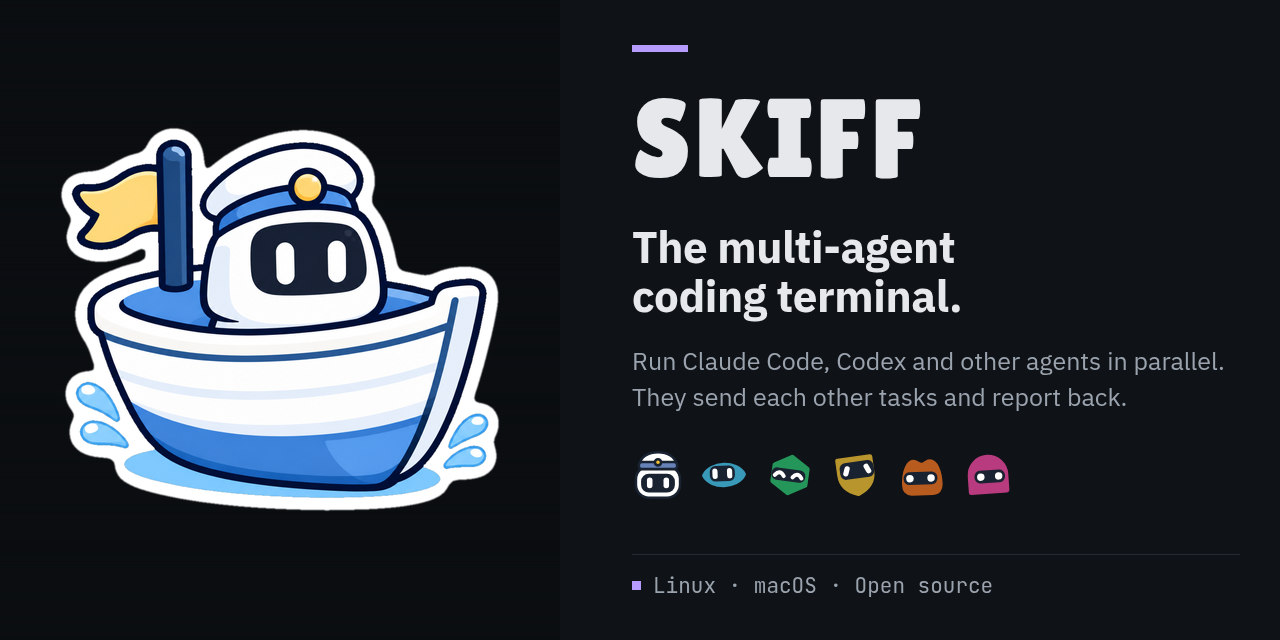
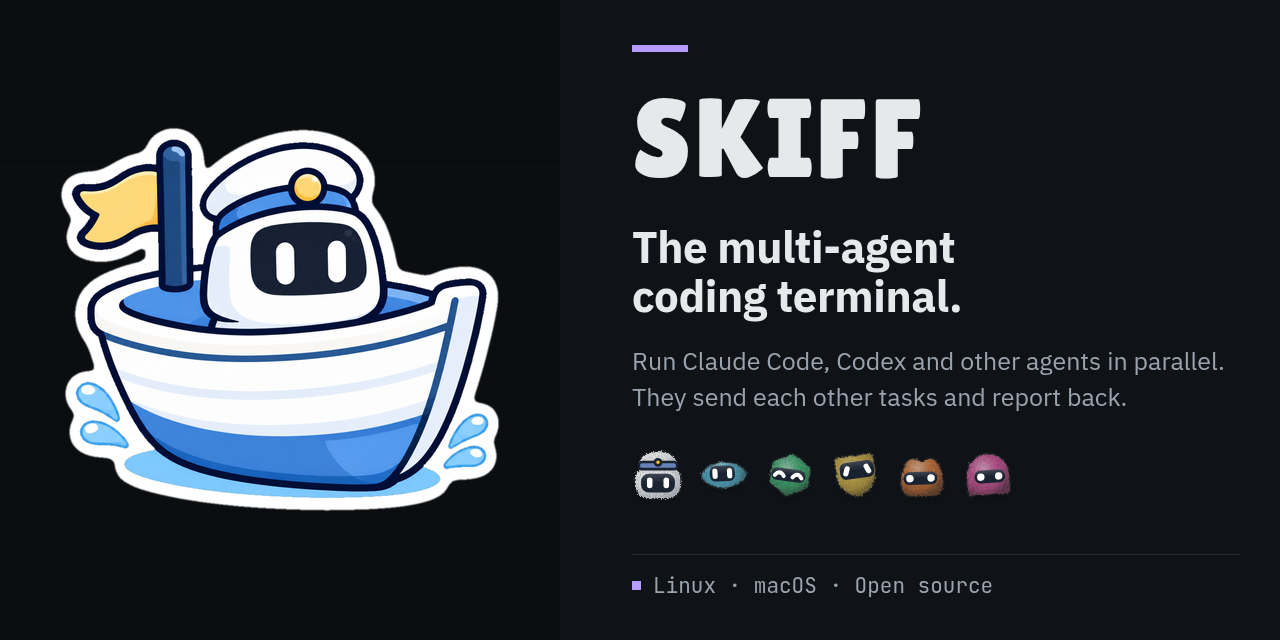
Home and social preview: the Skipper faces in plush, the app's default finish
tools/skipper-avatar.mjs follows skipperAvatar.ts at skiff 362e86a (types
stripped): the plush, gummy and flat finishes and finishDefs(). crew.mjs
draws the crew in DEFAULT_FINISH (plush) and puts the finish defs in once,
before the row, and inside the README banner. The hero crew row and the
social image (og:image ?v=7) are regenerated; build.py rewrites the heads.

The app screenshots and videos still show the flat faces they were shot with.

Changed region(s): [[0.5, 0.6875, 0.8125, 0.7812]]

diff --git a/index.html b/index.html
@@ -10,7 +10,7 @@
 <meta property="og:type" content="website">
 <meta property="og:site_name" content="Skiff">
 <meta property="og:url" content="https://skiff.solutionscay.com/">
-<meta property="og:image" content="https://skiff.solutionscay.com/social-preview.png?v=6">
+<meta property="og:image" content="https://skiff.solutionscay.com/social-preview.png?v=7">
 <meta property="og:image:width" content="1280">
 <meta property="og:image:height" content="640">
 <meta property="og:image:alt" content="Skiff: the multi-agent coding terminal">
@@ -59,13 +59,14 @@
       <h1>The multi-agent coding terminal.</h1>
       <p>Run Claude Code, Codex and other agents in parallel. They send each other tasks and report back.</p>
       <!-- crew -->
+      <svg id="sk-finish-defs" width="0" height="0" style="position:absolute" aria-hidden="true" focusable="false"><defs><radialGradient id="sk-shade-white" cx=".36" cy=".28" r=".8">  <stop offset="0" stop-color="#fff"/><stop offset=".55" stop-color="#eef0f4"/><stop offset="1" stop-color="#aeb6c4"/></radialGradient><linearGradient id="sk-visor" x1="0" y1="0" x2="0" y2="1">  <stop offset="0" stop-color="#fff" stop-opacity=".16"/><stop offset=".5" stop-color="#fff" stop-opacity="0"/></linearGradient><radialGradient id="sk-shade-gummy" gradientUnits="userSpaceOnUse" cx="12" cy="10" r="19">  <stop offset="0" stop-color="#cfcfcf"/><stop offset=".35" stop-color="#808080"/>  <stop offset=".7" stop-color="#6e6e6e"/><stop offset="1" stop-color="#2a2a2a"/></radialGradient><radialGradient id="sk-shade-plush" gradientUnits="userSpaceOnUse" cx="13.5" cy="11.5" r="17.5">  <stop offset="0" stop-color="#b8b8b8"/><stop offset=".45" stop-color="#808080"/>  <stop offset=".75" stop-color="#6c6c6c"/><stop offset="1" stop-color="#3a3a3a"/></radialGradient><filter id="sk-gummy" x="-25%" y="-25%" width="150%" height="160%" color-interpolation-filters="sRGB">  <feGaussianBlur in="SourceAlpha" stdDeviation="1.6" result="soft"/>  <feOffset in="soft" dy="-1.8" result="up"/>  <feComposite in="SourceAlpha" in2="up" operator="out" result="rim0"/>  <feGaussianBlur in="rim0" stdDeviation=".7" result="rim1"/>  <feComposite in="rim1" in2="SourceAlpha" operator="in" result="rim"/>  <feFlood flood-color="#fff" flood-opacity=".38"/>  <feComposite in2="rim" operator="in" result="glow"/>  <feOffset in="soft" dy="1.4" result="down"/>  <feComposite in="SourceAlpha" in2="down" operator="out" result="top0"/>  <feGaussianBlur in="top0" stdDeviation=".7" result="top1"/>  <feComposite in="top1" in2="SourceAlpha" operator="in" result="toprim"/>  <feFlood flood-color="#000" flood-opacity=".3"/>  <feComposite in2="toprim" operator="in" result="dark"/>  <feGaussianBlur in="SourceAlpha" stdDeviation="3.2" result="bump"/>  <feSpecularLighting in="bump" surfaceScale="2.4" specularConstant=".85" specularExponent="14" lighting-color="#fff" result="spec">    <fePointLight x="10" y="4" z="22"/>  </feSpecularLighting>  <feGaussianBlur in="spec" stdDeviation=".5" result="spec2"/>  <feComposite in="spec2" in2="SourceAlpha" operator="in" result="gloss"/>  <feMerge result="body"><feMergeNode in="SourceGraphic"/><feMergeNode in="dark"/><feMergeNode in="glow"/><feMergeNode in="gloss"/></feMerge>  <feGaussianBlur in="SourceAlpha" stdDeviation="1.4" result="sb"/>  <feOffset in="sb" dy="1.8" result="so"/>  <feFlood flood-color="#000" flood-opacity=".32"/>  <feComposite in2="so" operator="in" result="shadow"/>  <feMerge><feMergeNode in="shadow"/><feMergeNode in="body"/></feMerge></filter><filter id="sk-plush" x="-30%" y="-30%" width="160%" height="160%" color-interpolation-filters="sRGB">  <feTurbulence type="fractalNoise" baseFrequency="1.15" numOctaves="4" seed="11" result="noise"/>  <feDisplacementMap in="SourceGraphic" in2="noise" scale="6" xChannelSelector="R" yChannelSelector="G" result="far"/>  <feGaussianBlur in="far" stdDeviation=".8" result="far2"/>  <feComponentTransfer in="far2" result="fluff1"><feFuncA type="linear" slope=".55"/></feComponentTransfer>  <feDisplacementMap in="SourceGraphic" in2="noise" scale="4.2" xChannelSelector="G" yChannelSelector="R" result="long"/>  <feGaussianBlur in="long" stdDeviation=".35" result="fluff2"/>  <feDisplacementMap in="SourceGraphic" in2="noise" scale="2" xChannelSelector="R" yChannelSelector="G" result="core"/>  <feGaussianBlur in="core" stdDeviation=".15" result="core2"/>  <feMerge result="fluff"><feMergeNode in="fluff1"/><feMergeNode in="fluff2"/><feMergeNode in="core2"/></feMerge>  <feTurbulence type="fractalNoise" baseFrequency="1.3 .9" numOctaves="2" seed="5" result="grain"/>  <feColorMatrix in="grain" type="saturate" values="0" result="gg"/>  <feGaussianBlur in="gg" stdDeviation=".2" result="gb"/>  <feComponentTransfer in="gb" result="g"><feFuncR type="linear" slope=".55" intercept=".22"/><feFuncG type="linear" slope=".55" intercept=".22"/><feFuncB type="linear" slope=".55" intercept=".22"/></feComponentTransfer>  <feBlend in="fluff" in2="g" mode="soft-light" result="furred"/>  <feComposite in="furred" in2="fluff" operator="in" result="toy"/>  <feGaussianBlur in="SourceAlpha" stdDeviation="1.8" result="sb"/>  <feOffset in="sb" dy="1.8" result="so"/>  <feFlood flood-color="#000" flood-opacity=".22"/>  <feComposite in2="so" operator="in" result="shadow"/>  <feMerge><feMergeNode in="shadow"/><feMergeNode in="toy"/></feMerge></filter></defs></svg>
       <div class="crew" role="img" aria-label="The Skiff crew: Admiral and five Skippers">
-        <span class="skipper-face" style="--pc:#8eb4ff"><svg viewBox="0 0 32 32" aria-hidden="true" style="--blink:4.1s;--blink-delay:-0.30s;--blink-anim:sk-blink;--face-turn:45s;--face-turn-delay:-12.00s;--dir:1"><g class="sk-turn"><rect x="2.4" y="10.6" width="27.2" height="19.4" rx="8" fill="#fff" stroke="#192230" stroke-width="1.6" stroke-linejoin="round"/><g class="sk-cap"><path d="M4.6 9.4C5.4 4.6 10 2 16 2s10.6 2.6 11.4 7.4z" fill="#fff" stroke="#192230" stroke-width="1.6" stroke-linejoin="round"/><rect x="4.2" y="8" width="23.6" height="4.4" rx="1.8" style="fill:color-mix(in srgb, var(--pc, var(--project-default)) 72%, #000)" stroke="#192230" stroke-width="1.6" stroke-linejoin="round"/></g><g class="sk-front"><circle cx="16" cy="8.2" r="1.9" fill="#f4c430" stroke="#192230" stroke-width="1.6" stroke-linejoin="round"/><rect x="5.6" y="15.2" width="20.8" height="11.6" rx="4.8" fill="#192230"/><g class="sk-look"><g class="sk-eyes" fill="#fff"><rect x="9.2" y="17.6" width="3.4" height="6.6" rx="1.7"/><rect x="19.4" y="17.6" width="3.4" height="6.6" rx="1.7"/></g></g></g></g></svg></span>
-        <span class="skipper-face" style="--pc:#4fd4ff"><svg viewBox="0 0 32 32" aria-hidden="true" style="--blink:4.4s;--blink-delay:-2.20s;--blink-anim:sk-blink;--face-turn:42s;--face-turn-delay:-37.00s;--dir:-1"><g class="sk-turn"><g transform="rotate(-2 16 16)"><path d="M4 16C8 8 24 8 28 16 24 24 8 24 4 16z" style="fill:color-mix(in srgb, var(--pc, var(--project-default)) 72%, #000);stroke:color-mix(in srgb, var(--pc, var(--project-default)) 72%, #000)" stroke-width="3" stroke-linejoin="round"/><g class="sk-front"><rect x="7.300000000000001" y="10.2" width="15.399999999999999" height="9.600000000000001" rx="3.5" fill="#192230"/><g class="sk-look"><g class="sk-eyes" fill="#fff"><g transform="translate(10.5 15)"><rect x="-1.6" y="-3.2" width="3.2" height="6.4" rx="1.6"/></g><g transform="translate(19.5 15)"><rect x="-1.6" y="-3.2" width="3.2" height="6.4" rx="1.6"/></g></g></g></g></g></g></svg></span>
-        <span class="skipper-face" style="--pc:#34d07c"><svg viewBox="0 0 32 32" aria-hidden="true" style="--blink:7s;--blink-delay:-1.80s;--blink-anim:sk-blink2;--face-turn:36s;--face-turn-delay:-26.00s;--dir:-1"><g class="sk-turn"><g transform="rotate(8 16 16)"><path d="M16 5l10 6v10l-10 6-10-6V11z" style="fill:color-mix(in srgb, var(--pc, var(--project-default)) 72%, #000);stroke:color-mix(in srgb, var(--pc, var(--project-default)) 72%, #000)" stroke-width="3" stroke-linejoin="round"/><g class="sk-front"><rect x="4.5" y="12.399999999999999" width="21" height="7.6000000000000005" rx="3.5" fill="#192230"/><g class="sk-look"><g class="sk-eyes" fill="#fff"><g transform="translate(9.5 16)"><path d="M-2.8 1.2q2.8-4 5.6 0" fill="none" stroke="#fff" stroke-width="2.4" stroke-linecap="round"/></g><g transform="translate(20.5 16)"><path d="M-2.8 1.2q2.8-4 5.6 0" fill="none" stroke="#fff" stroke-width="2.4" stroke-linecap="round"/></g></g></g></g></g></g></svg></span>
-        <span class="skipper-face" style="--pc:#ffcf3f"><svg viewBox="0 0 32 32" aria-hidden="true" style="--blink:4.4s;--blink-delay:-1.70s;--blink-anim:sk-blink;--face-turn:30s;--face-turn-delay:-28.00s;--dir:-1"><g class="sk-turn"><g transform="rotate(-8 16 16)"><path d="M6 6h20v9c0 6.5-4.5 10.5-10 12.5C10.5 25.5 6 21.5 6 15z" style="fill:color-mix(in srgb, var(--pc, var(--project-default)) 72%, #000);stroke:color-mix(in srgb, var(--pc, var(--project-default)) 72%, #000)" stroke-width="3" stroke-linejoin="round"/><g class="sk-front"><rect x="6.5" y="7.85" width="21" height="10.3" rx="3.5" fill="#192230"/><g class="sk-look"><g class="sk-eyes" fill="#fff"><g transform="translate(10.5 13)"><rect x="-1.6" y="-3.2" width="3.2" height="6.4" rx="1.6" transform="rotate(22)"/></g><g transform="translate(23.5 13)"><rect x="-1.6" y="-3.2" width="3.2" height="6.4" rx="1.6" transform="rotate(-22)"/></g></g></g></g></g></g></svg></span>
-        <span class="skipper-face" style="--pc:#ff7f2a"><svg viewBox="0 0 32 32" aria-hidden="true" style="--blink:4.6s;--blink-delay:-2.10s;--blink-anim:sk-blink;--face-turn:33s;--face-turn-delay:-19.00s;--dir:-1"><g class="sk-turn"><g transform="rotate(-2 16 16)"><path d="M5 22c0-8 2.5-14 6-14 2 0 3 2 5 2s3-2 5-2c3.5 0 6 6 6 14 0 3-1.5 5-4.5 5h-13C6.5 27 5 25 5 22z" style="fill:color-mix(in srgb, var(--pc, var(--project-default)) 72%, #000);stroke:color-mix(in srgb, var(--pc, var(--project-default)) 72%, #000)" stroke-width="3" stroke-linejoin="round"/><g class="sk-front"><rect x="4.6" y="14.1" width="20.8" height="7.8" rx="3.5" fill="#192230"/><g class="sk-look"><g class="sk-eyes" fill="#fff"><g transform="translate(8.5 18)"><circle r="2.3"/></g><g transform="translate(21.5 18)"><circle r="2.3"/></g></g></g></g></g></g></svg></span>
-        <span class="skipper-face" style="--pc:#ff52b0"><svg viewBox="0 0 32 32" aria-hidden="true" style="--blink:5.6s;--blink-delay:-0.90s;--blink-anim:sk-blink;--face-turn:42s;--face-turn-delay:-39.00s;--dir:1"><g class="sk-turn"><g transform="rotate(-4 16 16)"><path d="M5 26V16a11 11 0 0 1 22 0v10z" style="fill:color-mix(in srgb, var(--pc, var(--project-default)) 72%, #000);stroke:color-mix(in srgb, var(--pc, var(--project-default)) 72%, #000)" stroke-width="3" stroke-linejoin="round"/><g class="sk-front"><rect x="7.6" y="13.1" width="18.8" height="7.8" rx="3.5" fill="#192230"/><g class="sk-look"><g class="sk-eyes" fill="#fff"><g transform="translate(11.5 17)"><circle r="2.3"/></g><g transform="translate(22.5 17)"><circle r="2.3"/></g></g></g></g></g></g></svg></span>
+        <span class="skipper-face" style="--pc:#8eb4ff"><svg viewBox="0 0 32 32" aria-hidden="true" overflow="visible" style="--blink:4.1s;--blink-delay:-0.30s;--blink-anim:sk-blink;--face-turn:45s;--face-turn-delay:-12.00s;--dir:1"><g class="sk-turn"><g filter="url(#sk-plush)"><rect x="2.4" y="10.6" width="27.2" height="19.4" rx="8" fill="#fff" /><rect x="2.4" y="10.6" width="27.2" height="19.4" rx="8" fill="url(#sk-shade-white)" /></g><g class="sk-cap"><g filter="url(#sk-plush)"><path d="M4.6 9.4C5.4 4.6 10 2 16 2s10.6 2.6 11.4 7.4z" fill="#fff" /><path d="M4.6 9.4C5.4 4.6 10 2 16 2s10.6 2.6 11.4 7.4z" fill="url(#sk-shade-white)" /></g><rect x="4.2" y="8" width="23.6" height="4.4" rx="1.8" style="fill:color-mix(in srgb, var(--pc, var(--project-default)) 72%, #000)" stroke="#192230" stroke-width="1.6" stroke-linejoin="round"/></g><g class="sk-front"><circle cx="16" cy="8.2" r="1.9" fill="#f4c430" stroke="#192230" stroke-width="1.6" stroke-linejoin="round"/><rect x="5.6" y="15.2" width="20.8" height="11.6" rx="4.8" fill="#192230"/><rect x="5.6" y="15.2" width="20.8" height="11.6" rx="4.8" fill="url(#sk-visor)"/><g class="sk-look"><g class="sk-eyes" fill="#fff"><rect x="9.2" y="17.6" width="3.4" height="6.6" rx="1.7"/><rect x="19.4" y="17.6" width="3.4" height="6.6" rx="1.7"/></g></g></g></g></svg></span>
+        <span class="skipper-face" style="--pc:#4fd4ff"><svg viewBox="0 0 32 32" aria-hidden="true" overflow="visible" style="--blink:4.4s;--blink-delay:-2.20s;--blink-anim:sk-blink;--face-turn:42s;--face-turn-delay:-37.00s;--dir:-1"><g class="sk-turn"><g transform="rotate(-2 16 16)"><g filter="url(#sk-plush)"><path d="M4 16C8 8 24 8 28 16 24 24 8 24 4 16z" style="fill:color-mix(in srgb, var(--pc, var(--project-default)) 72%, #000);stroke:color-mix(in srgb, var(--pc, var(--project-default)) 72%, #000)" stroke-width="3" stroke-linejoin="round"/><path d="M4 16C8 8 24 8 28 16 24 24 8 24 4 16z" fill="url(#sk-shade-plush)" stroke="url(#sk-shade-plush)" stroke-width="3" stroke-linejoin="round" style="mix-blend-mode:hard-light"/></g><g class="sk-front"><rect x="7.300000000000001" y="10.2" width="15.399999999999999" height="9.600000000000001" rx="3.5" fill="#192230"/><rect x="7.300000000000001" y="10.2" width="15.399999999999999" height="9.600000000000001" rx="3.5" fill="url(#sk-visor)"/><g class="sk-look"><g class="sk-eyes" fill="#fff"><g transform="translate(10.5 15)"><rect x="-1.6" y="-3.2" width="3.2" height="6.4" rx="1.6"/></g><g transform="translate(19.5 15)"><rect x="-1.6" y="-3.2" width="3.2" height="6.4" rx="1.6"/></g></g></g></g></g></g></svg></span>
+        <span class="skipper-face" style="--pc:#34d07c"><svg viewBox="0 0 32 32" aria-hidden="true" overflow="visible" style="--blink:7s;--blink-delay:-1.80s;--blink-anim:sk-blink2;--face-turn:36s;--face-turn-delay:-26.00s;--dir:-1"><g class="sk-turn"><g transform="rotate(8 16 16)"><g filter="url(#sk-plush)"><path d="M16 5l10 6v10l-10 6-10-6V11z" style="fill:color-mix(in srgb, var(--pc, var(--project-default)) 72%, #000);stroke:color-mix(in srgb, var(--pc, var(--project-default)) 72%, #000)" stroke-width="3" stroke-linejoin="round"/><path d="M16 5l10 6v10l-10 6-10-6V11z" fill="url(#sk-shade-plush)" stroke="url(#sk-shade-plush)" stroke-width="3" stroke-linejoin="round" style="mix-blend-mode:hard-light"/></g><g class="sk-front"><rect x="4.5" y="12.399999999999999" width="21" height="7.6000000000000005" rx="3.5" fill="#192230"/><rect x="4.5" y="12.399999999999999" width="21" height="7.6000000000000005" rx="3.5" fill="url(#sk-visor)"/><g class="sk-look"><g class="sk-eyes" fill="#fff"><g transform="translate(9.5 16)"><path d="M-2.8 1.2q2.8-4 5.6 0" fill="none" stroke="#fff" stroke-width="2.4" stroke-linecap="round"/></g><g transform="translate(20.5 16)"><path d="M-2.8 1.2q2.8-4 5.6 0" fill="none" stroke="#fff" stroke-width="2.4" stroke-linecap="round"/></g></g></g></g></g></g></svg></span>
+        <span class="skipper-face" style="--pc:#ffcf3f"><svg viewBox="0 0 32 32" aria-hidden="true" overflow="visible" style="--blink:4.4s;--blink-delay:-1.70s;--blink-anim:sk-blink;--face-turn:30s;--face-turn-delay:-28.00s;--dir:-1"><g class="sk-turn"><g transform="rotate(-8 16 16)"><g filter="url(#sk-plush)"><path d="M6 6h20v9c0 6.5-4.5 10.5-10 12.5C10.5 25.5 6 21.5 6 15z" style="fill:color-mix(in srgb, var(--pc, var(--project-default)) 72%, #000);stroke:color-mix(in srgb, var(--pc, var(--project-default)) 72%, #000)" stroke-width="3" stroke-linejoin="round"/><path d="M6 6h20v9c0 6.5-4.5 10.5-10 12.5C10.5 25.5 6 21.5 6 15z" fill="url(#sk-shade-plush)" stroke="url(#sk-shade-plush)" stroke-width="3" stroke-linejoin="round" style="mix-blend-mode:hard-light"/></g><g class="sk-front"><rect x="6.5" y="7.85" width="21" height="10.3" rx="3.5" fill="#192230"/><rect x="6.5" y="7.85" width="21" height="10.3" rx="3.5" fill="url(#sk-visor)"/><g class="sk-look"><g class="sk-eyes" fill="#fff"><g transform="translate(10.5 13)"><rect x="-1.6" y="-3.2" width="3.2" height="6.4" rx="1.6" transform="rotate(22)"/></g><g transform="translate(23.5 13)"><rect x="-1.6" y="-3.2" width="3.2" height="6.4" rx="1.6" transform="rotate(-22)"/></g></g></g></g></g></g></svg></span>
+        <span class="skipper-face" style="--pc:#ff7f2a"><svg viewBox="0 0 32 32" aria-hidden="true" overflow="visible" style="--blink:4.6s;--blink-delay:-2.10s;--blink-anim:sk-blink;--face-turn:33s;--face-turn-delay:-19.00s;--dir:-1"><g class="sk-turn"><g transform="rotate(-2 16 16)"><g filter="url(#sk-plush)"><path d="M5 22c0-8 2.5-14 6-14 2 0 3 2 5 2s3-2 5-2c3.5 0 6 6 6 14 0 3-1.5 5-4.5 5h-13C6.5 27 5 25 5 22z" style="fill:color-mix(in srgb, var(--pc, var(--project-default)) 72%, #000);stroke:color-mix(in srgb, var(--pc, var(--project-default)) 72%, #000)" stroke-width="3" stroke-linejoin="round"/><path d="M5 22c0-8 2.5-14 6-14 2 0 3 2 5 2s3-2 5-2c3.5 0 6 6 6 14 0 3-1.5 5-4.5 5h-13C6.5 27 5 25 5 22z" fill="url(#sk-shade-plush)" stroke="url(#sk-shade-plush)" stroke-width="3" stroke-linejoin="round" style="mix-blend-mode:hard-light"/></g><g class="sk-front"><rect x="4.6" y="14.1" width="20.8" height="7.8" rx="3.5" fill="#192230"/><rect x="4.6" y="14.1" width="20.8" height="7.8" rx="3.5" fill="url(#sk-visor)"/><g class="sk-look"><g class="sk-eyes" fill="#fff"><g transform="translate(8.5 18)"><circle r="2.3"/></g><g transform="translate(21.5 18)"><circle r="2.3"/></g></g></g></g></g></g></svg></span>
+        <span class="skipper-face" style="--pc:#ff52b0"><svg viewBox="0 0 32 32" aria-hidden="true" overflow="visible" style="--blink:5.6s;--blink-delay:-0.90s;--blink-anim:sk-blink;--face-turn:42s;--face-turn-delay:-39.00s;--dir:1"><g class="sk-turn"><g transform="rotate(-4 16 16)"><g filter="url(#sk-plush)"><path d="M5 26V16a11 11 0 0 1 22 0v10z" style="fill:color-mix(in srgb, var(--pc, var(--project-default)) 72%, #000);stroke:color-mix(in srgb, var(--pc, var(--project-default)) 72%, #000)" stroke-width="3" stroke-linejoin="round"/><path d="M5 26V16a11 11 0 0 1 22 0v10z" fill="url(#sk-shade-plush)" stroke="url(#sk-shade-plush)" stroke-width="3" stroke-linejoin="round" style="mix-blend-mode:hard-light"/></g><g class="sk-front"><rect x="7.6" y="13.1" width="18.8" height="7.8" rx="3.5" fill="#192230"/><rect x="7.6" y="13.1" width="18.8" height="7.8" rx="3.5" fill="url(#sk-visor)"/><g class="sk-look"><g class="sk-eyes" fill="#fff"><g transform="translate(11.5 17)"><circle r="2.3"/></g><g transform="translate(22.5 17)"><circle r="2.3"/></g></g></g></g></g></g></svg></span>
       </div>
       <!-- /crew -->
       <div class="get">

diff --git a/tools/social-preview.html b/tools/social-preview.html
@@ -39,13 +39,14 @@
     <h1>The multi-agent<br>coding terminal.</h1>
     <p>Run Claude Code, Codex and other agents in parallel.<br>They send each other tasks and report back.</p>
     <!-- crew -->
+    <svg id="sk-finish-defs" width="0" height="0" style="position:absolute" aria-hidden="true" focusable="false"><defs><radialGradient id="sk-shade-white" cx=".36" cy=".28" r=".8">  <stop offset="0" stop-color="#fff"/><stop offset=".55" stop-color="#eef0f4"/><stop offset="1" stop-color="#aeb6c4"/></radialGradient><linearGradient id="sk-visor" x1="0" y1="0" x2="0" y2="1">  <stop offset="0" stop-color="#fff" stop-opacity=".16"/><stop offset=".5" stop-color="#fff" stop-opacity="0"/></linearGradient><radialGradient id="sk-shade-gummy" gradientUnits="userSpaceOnUse" cx="12" cy="10" r="19">  <stop offset="0" stop-color="#cfcfcf"/><stop offset=".35" stop-color="#808080"/>  <stop offset=".7" stop-color="#6e6e6e"/><stop offset="1" stop-color="#2a2a2a"/></radialGradient><radialGradient id="sk-shade-plush" gradientUnits="userSpaceOnUse" cx="13.5" cy="11.5" r="17.5">  <stop offset="0" stop-color="#b8b8b8"/><stop offset=".45" stop-color="#808080"/>  <stop offset=".75" stop-color="#6c6c6c"/><stop offset="1" stop-color="#3a3a3a"/></radialGradient><filter id="sk-gummy" x="-25%" y="-25%" width="150%" height="160%" color-interpolation-filters="sRGB">  <feGaussianBlur in="SourceAlpha" stdDeviation="1.6" result="soft"/>  <feOffset in="soft" dy="-1.8" result="up"/>  <feComposite in="SourceAlpha" in2="up" operator="out" result="rim0"/>  <feGaussianBlur in="rim0" stdDeviation=".7" result="rim1"/>  <feComposite in="rim1" in2="SourceAlpha" operator="in" result="rim"/>  <feFlood flood-color="#fff" flood-opacity=".38"/>  <feComposite in2="rim" operator="in" result="glow"/>  <feOffset in="soft" dy="1.4" result="down"/>  <feComposite in="SourceAlpha" in2="down" operator="out" result="top0"/>  <feGaussianBlur in="top0" stdDeviation=".7" result="top1"/>  <feComposite in="top1" in2="SourceAlpha" operator="in" result="toprim"/>  <feFlood flood-color="#000" flood-opacity=".3"/>  <feComposite in2="toprim" operator="in" result="dark"/>  <feGaussianBlur in="SourceAlpha" stdDeviation="3.2" result="bump"/>  <feSpecularLighting in="bump" surfaceScale="2.4" specularConstant=".85" specularExponent="14" lighting-color="#fff" result="spec">    <fePointLight x="10" y="4" z="22"/>  </feSpecularLighting>  <feGaussianBlur in="spec" stdDeviation=".5" result="spec2"/>  <feComposite in="spec2" in2="SourceAlpha" operator="in" result="gloss"/>  <feMerge result="body"><feMergeNode in="SourceGraphic"/><feMergeNode in="dark"/><feMergeNode in="glow"/><feMergeNode in="gloss"/></feMerge>  <feGaussianBlur in="SourceAlpha" stdDeviation="1.4" result="sb"/>  <feOffset in="sb" dy="1.8" result="so"/>  <feFlood flood-color="#000" flood-opacity=".32"/>  <feComposite in2="so" operator="in" result="shadow"/>  <feMerge><feMergeNode in="shadow"/><feMergeNode in="body"/></feMerge></filter><filter id="sk-plush" x="-30%" y="-30%" width="160%" height="160%" color-interpolation-filters="sRGB">  <feTurbulence type="fractalNoise" baseFrequency="1.15" numOctaves="4" seed="11" result="noise"/>  <feDisplacementMap in="SourceGraphic" in2="noise" scale="6" xChannelSelector="R" yChannelSelector="G" result="far"/>  <feGaussianBlur in="far" stdDeviation=".8" result="far2"/>  <feComponentTransfer in="far2" result="fluff1"><feFuncA type="linear" slope=".55"/></feComponentTransfer>  <feDisplacementMap in="SourceGraphic" in2="noise" scale="4.2" xChannelSelector="G" yChannelSelector="R" result="long"/>  <feGaussianBlur in="long" stdDeviation=".35" result="fluff2"/>  <feDisplacementMap in="SourceGraphic" in2="noise" scale="2" xChannelSelector="R" yChannelSelector="G" result="core"/>  <feGaussianBlur in="core" stdDeviation=".15" result="core2"/>  <feMerge result="fluff"><feMergeNode in="fluff1"/><feMergeNode in="fluff2"/><feMergeNode in="core2"/></feMerge>  <feTurbulence type="fractalNoise" baseFrequency="1.3 .9" numOctaves="2" seed="5" result="grain"/>  <feColorMatrix in="grain" type="saturate" values="0" result="gg"/>  <feGaussianBlur in="gg" stdDeviation=".2" result="gb"/>  <feComponentTransfer in="gb" result="g"><feFuncR type="linear" slope=".55" intercept=".22"/><feFuncG type="linear" slope=".55" intercept=".22"/><feFuncB type="linear" slope=".55" intercept=".22"/></feComponentTransfer>  <feBlend in="fluff" in2="g" mode="soft-light" result="furred"/>  <feComposite in="furred" in2="fluff" operator="in" result="toy"/>  <feGaussianBlur in="SourceAlpha" stdDeviation="1.8" result="sb"/>  <feOffset in="sb" dy="1.8" result="so"/>  <feFlood flood-color="#000" flood-opacity=".22"/>  <feComposite in2="so" operator="in" result="shadow"/>  <feMerge><feMergeNode in="shadow"/><feMergeNode in="toy"/></feMerge></filter></defs></svg>
     <div class="crew" role="img" aria-label="The Skiff crew: Admiral and five Skippers">
-      <span class="skipper-face" style="--pc:#8eb4ff"><svg viewBox="0 0 32 32" aria-hidden="true" style="--blink:4.1s;--blink-delay:-0.30s;--blink-anim:sk-blink;--face-turn:45s;--face-turn-delay:-12.00s;--dir:1"><g class="sk-turn"><rect x="2.4" y="10.6" width="27.2" height="19.4" rx="8" fill="#fff" stroke="#192230" stroke-width="1.6" stroke-linejoin="round"/><g class="sk-cap"><path d="M4.6 9.4C5.4 4.6 10 2 16 2s10.6 2.6 11.4 7.4z" fill="#fff" stroke="#192230" stroke-width="1.6" stroke-linejoin="round"/><rect x="4.2" y="8" width="23.6" height="4.4" rx="1.8" style="fill:color-mix(in srgb, var(--pc, var(--project-default)) 72%, #000)" stroke="#192230" stroke-width="1.6" stroke-linejoin="round"/></g><g class="sk-front"><circle cx="16" cy="8.2" r="1.9" fill="#f4c430" stroke="#192230" stroke-width="1.6" stroke-linejoin="round"/><rect x="5.6" y="15.2" width="20.8" height="11.6" rx="4.8" fill="#192230"/><g class="sk-look"><g class="sk-eyes" fill="#fff"><rect x="9.2" y="17.6" width="3.4" height="6.6" rx="1.7"/><rect x="19.4" y="17.6" width="3.4" height="6.6" rx="1.7"/></g></g></g></g></svg></span>
-      <span class="skipper-face" style="--pc:#4fd4ff"><svg viewBox="0 0 32 32" aria-hidden="true" style="--blink:4.4s;--blink-delay:-2.20s;--blink-anim:sk-blink;--face-turn:42s;--face-turn-delay:-37.00s;--dir:-1"><g class="sk-turn"><g transform="rotate(-2 16 16)"><path d="M4 16C8 8 24 8 28 16 24 24 8 24 4 16z" style="fill:color-mix(in srgb, var(--pc, var(--project-default)) 72%, #000);stroke:color-mix(in srgb, var(--pc, var(--project-default)) 72%, #000)" stroke-width="3" stroke-linejoin="round"/><g class="sk-front"><rect x="7.300000000000001" y="10.2" width="15.399999999999999" height="9.600000000000001" rx="3.5" fill="#192230"/><g class="sk-look"><g class="sk-eyes" fill="#fff"><g transform="translate(10.5 15)"><rect x="-1.6" y="-3.2" width="3.2" height="6.4" rx="1.6"/></g><g transform="translate(19.5 15)"><rect x="-1.6" y="-3.2" width="3.2" height="6.4" rx="1.6"/></g></g></g></g></g></g></svg></span>
-      <span class="skipper-face" style="--pc:#34d07c"><svg viewBox="0 0 32 32" aria-hidden="true" style="--blink:7s;--blink-delay:-1.80s;--blink-anim:sk-blink2;--face-turn:36s;--face-turn-delay:-26.00s;--dir:-1"><g class="sk-turn"><g transform="rotate(8 16 16)"><path d="M16 5l10 6v10l-10 6-10-6V11z" style="fill:color-mix(in srgb, var(--pc, var(--project-default)) 72%, #000);stroke:color-mix(in srgb, var(--pc, var(--project-default)) 72%, #000)" stroke-width="3" stroke-linejoin="round"/><g class="sk-front"><rect x="4.5" y="12.399999999999999" width="21" height="7.6000000000000005" rx="3.5" fill="#192230"/><g class="sk-look"><g class="sk-eyes" fill="#fff"><g transform="translate(9.5 16)"><path d="M-2.8 1.2q2.8-4 5.6 0" fill="none" stroke="#fff" stroke-width="2.4" stroke-linecap="round"/></g><g transform="translate(20.5 16)"><path d="M-2.8 1.2q2.8-4 5.6 0" fill="none" stroke="#fff" stroke-width="2.4" stroke-linecap="round"/></g></g></g></g></g></g></svg></span>
-      <span class="skipper-face" style="--pc:#ffcf3f"><svg viewBox="0 0 32 32" aria-hidden="true" style="--blink:4.4s;--blink-delay:-1.70s;--blink-anim:sk-blink;--face-turn:30s;--face-turn-delay:-28.00s;--dir:-1"><g class="sk-turn"><g transform="rotate(-8 16 16)"><path d="M6 6h20v9c0 6.5-4.5 10.5-10 12.5C10.5 25.5 6 21.5 6 15z" style="fill:color-mix(in srgb, var(--pc, var(--project-default)) 72%, #000);stroke:color-mix(in srgb, var(--pc, var(--project-default)) 72%, #000)" stroke-width="3" stroke-linejoin="round"/><g class="sk-front"><rect x="6.5" y="7.85" width="21" height="10.3" rx="3.5" fill="#192230"/><g class="sk-look"><g class="sk-eyes" fill="#fff"><g transform="translate(10.5 13)"><rect x="-1.6" y="-3.2" width="3.2" height="6.4" rx="1.6" transform="rotate(22)"/></g><g transform="translate(23.5 13)"><rect x="-1.6" y="-3.2" width="3.2" height="6.4" rx="1.6" transform="rotate(-22)"/></g></g></g></g></g></g></svg></span>
-      <span class="skipper-face" style="--pc:#ff7f2a"><svg viewBox="0 0 32 32" aria-hidden="true" style="--blink:4.6s;--blink-delay:-2.10s;--blink-anim:sk-blink;--face-turn:33s;--face-turn-delay:-19.00s;--dir:-1"><g class="sk-turn"><g transform="rotate(-2 16 16)"><path d="M5 22c0-8 2.5-14 6-14 2 0 3 2 5 2s3-2 5-2c3.5 0 6 6 6 14 0 3-1.5 5-4.5 5h-13C6.5 27 5 25 5 22z" style="fill:color-mix(in srgb, var(--pc, var(--project-default)) 72%, #000);stroke:color-mix(in srgb, var(--pc, var(--project-default)) 72%, #000)" stroke-width="3" stroke-linejoin="round"/><g class="sk-front"><rect x="4.6" y="14.1" width="20.8" height="7.8" rx="3.5" fill="#192230"/><g class="sk-look"><g class="sk-eyes" fill="#fff"><g transform="translate(8.5 18)"><circle r="2.3"/></g><g transform="translate(21.5 18)"><circle r="2.3"/></g></g></g></g></g></g></svg></span>
-      <span class="skipper-face" style="--pc:#ff52b0"><svg viewBox="0 0 32 32" aria-hidden="true" style="--blink:5.6s;--blink-delay:-0.90s;--blink-anim:sk-blink;--face-turn:42s;--face-turn-delay:-39.00s;--dir:1"><g class="sk-turn"><g transform="rotate(-4 16 16)"><path d="M5 26V16a11 11 0 0 1 22 0v10z" style="fill:color-mix(in srgb, var(--pc, var(--project-default)) 72%, #000);stroke:color-mix(in srgb, var(--pc, var(--project-default)) 72%, #000)" stroke-width="3" stroke-linejoin="round"/><g class="sk-front"><rect x="7.6" y="13.1" width="18.8" height="7.8" rx="3.5" fill="#192230"/><g class="sk-look"><g class="sk-eyes" fill="#fff"><g transform="translate(11.5 17)"><circle r="2.3"/></g><g transform="translate(22.5 17)"><circle r="2.3"/></g></g></g></g></g></g></svg></span>
+      <span class="skipper-face" style="--pc:#8eb4ff"><svg viewBox="0 0 32 32" aria-hidden="true" overflow="visible" style="--blink:4.1s;--blink-delay:-0.30s;--blink-anim:sk-blink;--face-turn:45s;--face-turn-delay:-12.00s;--dir:1"><g class="sk-turn"><g filter="url(#sk-plush)"><rect x="2.4" y="10.6" width="27.2" height="19.4" rx="8" fill="#fff" /><rect x="2.4" y="10.6" width="27.2" height="19.4" rx="8" fill="url(#sk-shade-white)" /></g><g class="sk-cap"><g filter="url(#sk-plush)"><path d="M4.6 9.4C5.4 4.6 10 2 16 2s10.6 2.6 11.4 7.4z" fill="#fff" /><path d="M4.6 9.4C5.4 4.6 10 2 16 2s10.6 2.6 11.4 7.4z" fill="url(#sk-shade-white)" /></g><rect x="4.2" y="8" width="23.6" height="4.4" rx="1.8" style="fill:color-mix(in srgb, var(--pc, var(--project-default)) 72%, #000)" stroke="#192230" stroke-width="1.6" stroke-linejoin="round"/></g><g class="sk-front"><circle cx="16" cy="8.2" r="1.9" fill="#f4c430" stroke="#192230" stroke-width="1.6" stroke-linejoin="round"/><rect x="5.6" y="15.2" width="20.8" height="11.6" rx="4.8" fill="#192230"/><rect x="5.6" y="15.2" width="20.8" height="11.6" rx="4.8" fill="url(#sk-visor)"/><g class="sk-look"><g class="sk-eyes" fill="#fff"><rect x="9.2" y="17.6" width="3.4" height="6.6" rx="1.7"/><rect x="19.4" y="17.6" width="3.4" height="6.6" rx="1.7"/></g></g></g></g></svg></span>
+      <span class="skipper-face" style="--pc:#4fd4ff"><svg viewBox="0 0 32 32" aria-hidden="true" overflow="visible" style="--blink:4.4s;--blink-delay:-2.20s;--blink-anim:sk-blink;--face-turn:42s;--face-turn-delay:-37.00s;--dir:-1"><g class="sk-turn"><g transform="rotate(-2 16 16)"><g filter="url(#sk-plush)"><path d="M4 16C8 8 24 8 28 16 24 24 8 24 4 16z" style="fill:color-mix(in srgb, var(--pc, var(--project-default)) 72%, #000);stroke:color-mix(in srgb, var(--pc, var(--project-default)) 72%, #000)" stroke-width="3" stroke-linejoin="round"/><path d="M4 16C8 8 24 8 28 16 24 24 8 24 4 16z" fill="url(#sk-shade-plush)" stroke="url(#sk-shade-plush)" stroke-width="3" stroke-linejoin="round" style="mix-blend-mode:hard-light"/></g><g class="sk-front"><rect x="7.300000000000001" y="10.2" width="15.399999999999999" height="9.600000000000001" rx="3.5" fill="#192230"/><rect x="7.300000000000001" y="10.2" width="15.399999999999999" height="9.600000000000001" rx="3.5" fill="url(#sk-visor)"/><g class="sk-look"><g class="sk-eyes" fill="#fff"><g transform="translate(10.5 15)"><rect x="-1.6" y="-3.2" width="3.2" height="6.4" rx="1.6"/></g><g transform="translate(19.5 15)"><rect x="-1.6" y="-3.2" width="3.2" height="6.4" rx="1.6"/></g></g></g></g></g></g></svg></span>
+      <span class="skipper-face" style="--pc:#34d07c"><svg viewBox="0 0 32 32" aria-hidden="true" overflow="visible" style="--blink:7s;--blink-delay:-1.80s;--blink-anim:sk-blink2;--face-turn:36s;--face-turn-delay:-26.00s;--dir:-1"><g class="sk-turn"><g transform="rotate(8 16 16)"><g filter="url(#sk-plush)"><path d="M16 5l10 6v10l-10 6-10-6V11z" style="fill:color-mix(in srgb, var(--pc, var(--project-default)) 72%, #000);stroke:color-mix(in srgb, var(--pc, var(--project-default)) 72%, #000)" stroke-width="3" stroke-linejoin="round"/><path d="M16 5l10 6v10l-10 6-10-6V11z" fill="url(#sk-shade-plush)" stroke="url(#sk-shade-plush)" stroke-width="3" stroke-linejoin="round" style="mix-blend-mode:hard-light"/></g><g class="sk-front"><rect x="4.5" y="12.399999999999999" width="21" height="7.6000000000000005" rx="3.5" fill="#192230"/><rect x="4.5" y="12.399999999999999" width="21" height="7.6000000000000005" rx="3.5" fill="url(#sk-visor)"/><g class="sk-look"><g class="sk-eyes" fill="#fff"><g transform="translate(9.5 16)"><path d="M-2.8 1.2q2.8-4 5.6 0" fill="none" stroke="#fff" stroke-width="2.4" stroke-linecap="round"/></g><g transform="translate(20.5 16)"><path d="M-2.8 1.2q2.8-4 5.6 0" fill="none" stroke="#fff" stroke-width="2.4" stroke-linecap="round"/></g></g></g></g></g></g></svg></span>
+      <span class="skipper-face" style="--pc:#ffcf3f"><svg viewBox="0 0 32 32" aria-hidden="true" overflow="visible" style="--blink:4.4s;--blink-delay:-1.70s;--blink-anim:sk-blink;--face-turn:30s;--face-turn-delay:-28.00s;--dir:-1"><g class="sk-turn"><g transform="rotate(-8 16 16)"><g filter="url(#sk-plush)"><path d="M6 6h20v9c0 6.5-4.5 10.5-10 12.5C10.5 25.5 6 21.5 6 15z" style="fill:color-mix(in srgb, var(--pc, var(--project-default)) 72%, #000);stroke:color-mix(in srgb, var(--pc, var(--project-default)) 72%, #000)" stroke-width="3" stroke-linejoin="round"/><path d="M6 6h20v9c0 6.5-4.5 10.5-10 12.5C10.5 25.5 6 21.5 6 15z" fill="url(#sk-shade-plush)" stroke="url(#sk-shade-plush)" stroke-width="3" stroke-linejoin="round" style="mix-blend-mode:hard-light"/></g><g class="sk-front"><rect x="6.5" y="7.85" width="21" height="10.3" rx="3.5" fill="#192230"/><rect x="6.5" y="7.85" width="21" height="10.3" rx="3.5" fill="url(#sk-visor)"/><g class="sk-look"><g class="sk-eyes" fill="#fff"><g transform="translate(10.5 13)"><rect x="-1.6" y="-3.2" width="3.2" height="6.4" rx="1.6" transform="rotate(22)"/></g><g transform="translate(23.5 13)"><rect x="-1.6" y="-3.2" width="3.2" height="6.4" rx="1.6" transform="rotate(-22)"/></g></g></g></g></g></g></svg></span>
+      <span class="skipper-face" style="--pc:#ff7f2a"><svg viewBox="0 0 32 32" aria-hidden="true" overflow="visible" style="--blink:4.6s;--blink-delay:-2.10s;--blink-anim:sk-blink;--face-turn:33s;--face-turn-delay:-19.00s;--dir:-1"><g class="sk-turn"><g transform="rotate(-2 16 16)"><g filter="url(#sk-plush)"><path d="M5 22c0-8 2.5-14 6-14 2 0 3 2 5 2s3-2 5-2c3.5 0 6 6 6 14 0 3-1.5 5-4.5 5h-13C6.5 27 5 25 5 22z" style="fill:color-mix(in srgb, var(--pc, var(--project-default)) 72%, #000);stroke:color-mix(in srgb, var(--pc, var(--project-default)) 72%, #000)" stroke-width="3" stroke-linejoin="round"/><path d="M5 22c0-8 2.5-14 6-14 2 0 3 2 5 2s3-2 5-2c3.5 0 6 6 6 14 0 3-1.5 5-4.5 5h-13C6.5 27 5 25 5 22z" fill="url(#sk-shade-plush)" stroke="url(#sk-shade-plush)" stroke-width="3" stroke-linejoin="round" style="mix-blend-mode:hard-light"/></g><g class="sk-front"><rect x="4.6" y="14.1" width="20.8" height="7.8" rx="3.5" fill="#192230"/><rect x="4.6" y="14.1" width="20.8" height="7.8" rx="3.5" fill="url(#sk-visor)"/><g class="sk-look"><g class="sk-eyes" fill="#fff"><g transform="translate(8.5 18)"><circle r="2.3"/></g><g transform="translate(21.5 18)"><circle r="2.3"/></g></g></g></g></g></g></svg></span>
+      <span class="skipper-face" style="--pc:#ff52b0"><svg viewBox="0 0 32 32" aria-hidden="true" overflow="visible" style="--blink:5.6s;--blink-delay:-0.90s;--blink-anim:sk-blink;--face-turn:42s;--face-turn-delay:-39.00s;--dir:1"><g class="sk-turn"><g transform="rotate(-4 16 16)"><g filter="url(#sk-plush)"><path d="M5 26V16a11 11 0 0 1 22 0v10z" style="fill:color-mix(in srgb, var(--pc, var(--project-default)) 72%, #000);stroke:color-mix(in srgb, var(--pc, var(--project-default)) 72%, #000)" stroke-width="3" stroke-linejoin="round"/><path d="M5 26V16a11 11 0 0 1 22 0v10z" fill="url(#sk-shade-plush)" stroke="url(#sk-shade-plush)" stroke-width="3" stroke-linejoin="round" style="mix-blend-mode:hard-light"/></g><g class="sk-front"><rect x="7.6" y="13.1" width="18.8" height="7.8" rx="3.5" fill="#192230"/><rect x="7.6" y="13.1" width="18.8" height="7.8" rx="3.5" fill="url(#sk-visor)"/><g class="sk-look"><g class="sk-eyes" fill="#fff"><g transform="translate(11.5 17)"><circle r="2.3"/></g><g transform="translate(22.5 17)"><circle r="2.3"/></g></g></g></g></g></g></svg></span>
     </div>
     <!-- /crew -->
   </div>

diff --git a/guides/skiff-user-guide/focus-mode-and-mission-control/index.html b/guides/skiff-user-guide/focus-mode-and-mission-control/index.html
@@ -10,7 +10,7 @@
 <meta property="og:type" content="article">
 <meta property="og:site_name" content="Skiff">
 <meta property="og:url" content="https://skiff.solutionscay.com/guides/skiff-user-guide/focus-mode-and-mission-control/">
-<meta property="og:image" content="https://skiff.solutionscay.com/social-preview.png?v=6">
+<meta property="og:image" content="https://skiff.solutionscay.com/social-preview.png?v=7">
 <meta property="og:image:width" content="1280">
 <meta property="og:image:height" content="640">
 <meta property="og:image:alt" content="Skiff: the multi-agent coding terminal">

diff --git a/guides/skiff-user-guide/side-panel-diffs-and-files/index.html b/guides/skiff-user-guide/side-panel-diffs-and-files/index.html
@@ -10,7 +10,7 @@
 <meta property="og:type" content="article">
 <meta property="og:site_name" content="Skiff">
 <meta property="og:url" content="https://skiff.solutionscay.com/guides/skiff-user-guide/side-panel-diffs-and-files/">
-<meta property="og:image" content="https://skiff.solutionscay.com/social-preview.png?v=6">
+<meta property="og:image" content="https://skiff.solutionscay.com/social-preview.png?v=7">
 <meta property="og:image:width" content="1280">
 <meta property="og:image:height" content="640">
 <meta property="og:image:alt" content="Skiff: the multi-agent coding terminal">

diff --git a/guides/skiff-user-guide/projects-and-fleets/index.html b/guides/skiff-user-guide/projects-and-fleets/index.html
@@ -10,7 +10,7 @@
 <meta property="og:type" content="article">
 <meta property="og:site_name" content="Skiff">
 <meta property="og:url" content="https://skiff.solutionscay.com/guides/skiff-user-guide/projects-and-fleets/">
-<meta property="og:image" content="https://skiff.solutionscay.com/social-preview.png?v=6">
+<meta property="og:image" content="https://skiff.solutionscay.com/social-preview.png?v=7">
 <meta property="og:image:width" content="1280">
 <meta property="og:image:height" content="640">
 <meta property="og:image:alt" content="Skiff: the multi-agent coding terminal">

diff --git a/guides/skiff-user-guide/sessions-and-groups/index.html b/guides/skiff-user-guide/sessions-and-groups/index.html
@@ -10,7 +10,7 @@
 <meta property="og:type" content="article">
 <meta property="og:site_name" content="Skiff">
 <meta property="og:url" content="https://skiff.solutionscay.com/guides/skiff-user-guide/sessions-and-groups/">
-<meta property="og:image" content="https://skiff.solutionscay.com/social-preview.png?v=6">
+<meta property="og:image" content="https://skiff.solutionscay.com/social-preview.png?v=7">
 <meta property="og:image:width" content="1280">
 <meta property="og:image:height" content="640">
 <meta property="og:image:alt" content="Skiff: the multi-agent coding terminal">

diff --git a/guides/git-worktrees-for-coding-agents/index.html b/guides/git-worktrees-for-coding-agents/index.html
@@ -10,7 +10,7 @@
 <meta property="og:type" content="article">
 <meta property="og:site_name" content="Skiff">
 <meta property="og:url" content="https://skiff.solutionscay.com/guides/git-worktrees-for-coding-agents/">
-<meta property="og:image" content="https://skiff.solutionscay.com/social-preview.png?v=6">
+<meta property="og:image" content="https://skiff.solutionscay.com/social-preview.png?v=7">
 <meta property="og:image:width" content="1280">
 <meta property="og:image:height" content="640">
 <meta property="og:image:alt" content="Skiff: the multi-agent coding terminal">

diff --git a/guides/skiff-user-guide/set-up-admiral/index.html b/guides/skiff-user-guide/set-up-admiral/index.html
@@ -10,7 +10,7 @@
 <meta property="og:type" content="article">
 <meta property="og:site_name" content="Skiff">
 <meta property="og:url" content="https://skiff.solutionscay.com/guides/skiff-user-guide/set-up-admiral/">
-<meta property="og:image" content="https://skiff.solutionscay.com/social-preview.png?v=6">
+<meta property="og:image" content="https://skiff.solutionscay.com/social-preview.png?v=7">
 <meta property="og:image:width" content="1280">
 <meta property="og:image:height" content="640">
 <meta property="og:image:alt" content="Skiff: the multi-agent coding terminal">

diff --git a/guides/run-coding-agents-in-parallel/index.html b/guides/run-coding-agents-in-parallel/index.html
@@ -10,7 +10,7 @@
 <meta property="og:type" content="article">
 <meta property="og:site_name" content="Skiff">
 <meta property="og:url" content="https://skiff.solutionscay.com/guides/run-coding-agents-in-parallel/">
-<meta property="og:image" content="https://skiff.solutionscay.com/social-preview.png?v=6">
+<meta property="og:image" content="https://skiff.solutionscay.com/social-preview.png?v=7">
 <meta property="og:image:width" content="1280">
 <meta property="og:image:height" content="640">
 <meta property="og:image:alt" content="Skiff: the multi-agent coding terminal">

diff --git a/guides/skiff-user-guide/drop-images/index.html b/guides/skiff-user-guide/drop-images/index.html
@@ -10,7 +10,7 @@
 <meta property="og:type" content="article">
 <meta property="og:site_name" content="Skiff">
 <meta property="og:url" content="https://skiff.solutionscay.com/guides/skiff-user-guide/drop-images/">
-<meta property="og:image" content="https://skiff.solutionscay.com/social-preview.png?v=6">
+<meta property="og:image" content="https://skiff.solutionscay.com/social-preview.png?v=7">
 <meta property="og:image:width" content="1280">
 <meta property="og:image:height" content="640">
 <meta property="og:image:alt" content="Skiff: the multi-agent coding terminal">

diff --git a/guides/keep-agent-sessions-running/index.html b/guides/keep-agent-sessions-running/index.html
@@ -10,7 +10,7 @@
 <meta property="og:type" content="article">
 <meta property="og:site_name" content="Skiff">
 <meta property="og:url" content="https://skiff.solutionscay.com/guides/keep-agent-sessions-running/">
-<meta property="og:image" content="https://skiff.solutionscay.com/social-preview.png?v=6">
+<meta property="og:image" content="https://skiff.solutionscay.com/social-preview.png?v=7">
 <meta property="og:image:width" content="1280">
 <meta property="og:image:height" content="640">
 <meta property="og:image:alt" content="Skiff: the multi-agent coding terminal">

diff --git a/guides/skiff-user-guide/workspaces/index.html b/guides/skiff-user-guide/workspaces/index.html
@@ -10,7 +10,7 @@
 <meta property="og:type" content="article">
 <meta property="og:site_name" content="Skiff">
 <meta property="og:url" content="https://skiff.solutionscay.com/guides/skiff-user-guide/workspaces/">
-<meta property="og:image" content="https://skiff.solutionscay.com/social-preview.png?v=6">
+<meta property="og:image" content="https://skiff.solutionscay.com/social-preview.png?v=7">
 <meta property="og:image:width" content="1280">
 <meta property="og:image:height" content="640">
 <meta property="og:image:alt" content="Skiff: the multi-agent coding terminal">
